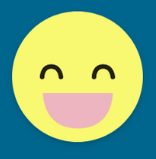
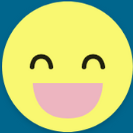
WIP: Styled nav bar with Carlos.

diff --git a/src/components/MenuBar.js b/src/components/MenuBar.js
@@ -2,7 +2,7 @@ import React from 'react';
 import { Link } from 'react-router-dom';
 import { Dropdown, Menu } from 'semantic-ui-react';
 import menubaremoji from '../ImgFiles/menubaremoji.PNG';
-import { menuBarEmoji } from './StyledWidgets';
+import { menuBarEmoji, NavBarMenu } from './StyledWidgets';
 
 
 
@@ -16,42 +16,36 @@ import { menuBarEmoji } from './StyledWidgets';
     console.log('props', props)
     if (token) {
         return (
-            <div >
+            <div style={NavBarMenu} >
                 <Menu attached='top' >
                     <Dropdown item icon='bars' simple>
                         <Dropdown.Menu>
                             <div>
                             <Link to='/' >
-                                <Dropdown.Item>Home</Dropdown.Item>
+                                <Dropdown.Item className="nav">Home</Dropdown.Item>
                             </Link>
                             </div>
                             <div>
                             <Link to='/contact' >
-                                <Dropdown.Item>Contact Us</Dropdown.Item>
+                                <Dropdown.Item className="nav">Contact Us</Dropdown.Item>
                             </Link>
                             </div>
                             <div>
                             <Link to ='/profile'>
-                                <Dropdown.Item>Profile</Dropdown.Item>
+                                <Dropdown.Item className="nav">Profile</Dropdown.Item>
                             </Link>
                             </div>
                             <div>
-                                <Dropdown.Item onClick={logout}>Logout</Dropdown.Item>
+                                <Dropdown.Item onClick={logout} className="nav">Logout</Dropdown.Item>
                             </div>
                         </Dropdown.Menu>
                     </Dropdown>
+
                     <Menu.Menu position='left' >
                             <img src={menubaremoji} alt='menuBarEmoji' style={menuBarEmoji}/>
-                            <h1  >MeSoFunny</h1>
+                            <h1>MeSoFunny</h1>
                     </Menu.Menu>
-                    <Menu.Menu position='right' >
-                        <h3 >Contact Us</h3>
-                        <h3>Settings</h3>
-                        <h3>Sign Out</h3>
-
-                    </Menu.Menu>
-
-
+                    
                 </Menu>
             </div>
         )
@@ -84,13 +78,6 @@ import { menuBarEmoji } from './StyledWidgets';
                             <img src={menubaremoji} alt='menuBarEmoji' style={menuBarEmoji}/>
                             <h1  >MeSoFunny</h1>
                     </Menu.Menu>
-                    <Menu.Menu position='right' >
-                            <h3 >Contact Us</h3>
-                            <h3>Settings</h3>
-                            <h3>Sign Out</h3>
-                    </Menu.Menu>
-
-
                 </Menu>
             </div>
         )

diff --git a/src/App.css b/src/App.css
@@ -49,35 +49,34 @@
 }
 .ui.attached.menu:not(.tabular){
   border: none;
+  width: 70%; 
+  margin: 0 auto; 
 }
 .ui.menu {
   background: rgb(86, 177, 173);
   display: flex;
-  justify-content: center;
+  justify-content: center; 
 }
 .ui.menu img {
-  margin: 0 ;
+  margin: 0 40px 0 10px;
 }
 .ui.menu h1 {
   color: white;
-  padding-top: 6%;
+  display: flex; 
+  align-items: center; 
+  
 }
-.ui.menu h3 {
-  color: white;
-  line-height: 0em;
-  margin: 0em;
-  font-size: 2vw;
-  padding-left: 10%;
-}
+
 h1:last-child, h2:last-child, h3:last-child, h4:last-child, h5:last-child{
   margin-top: 0;
 }
 
-.ui.menu:not(.vertical) .right.item, .ui.menu:not(.vertical) .right.menu{
-  margin-left: 0!important;
+.nav {
+  font-size: 2vh; 
+  margin: 30px; 
+  width: 8vw; 
 }
-.ui.menu .right.menu {
-  display: flex;
-  align-items: center;
-  font-size: 1.1rem;
+
+.ui.menu:not(.vertical) .item {
+  font-size: 2rem; 
 }

diff --git a/src/components/StyledWidgets.js b/src/components/StyledWidgets.js
@@ -12,11 +12,11 @@ export const jokeContainer = {
 export const menuIcon = {
     width: '120px',
     height: 'auto', 
-    
 }
 export const menuBarEmoji = {
-    width: '20%',
-    height: 'auto'
+    width: '100%',
+    height: 'auto',
+    borderRadius: '100%',
 }
 export const JokeListHeading = {
     display: 'flex',
@@ -44,3 +44,6 @@ export const JokeCarder ={
     flexDirection: 'column'
 }
 
+export const NavBarMenu = {
+    padding: '30px',
+}

diff --git a/src/homepage.css b/src/homepage.css
@@ -99,7 +99,6 @@
 */
 
 .public-joke-feed {
-    width: %; 
     margin: 0 auto; 
 }
 /* END of PublicJokes.jsx CSS */
@@ -122,7 +121,7 @@
 .public-card {
     width: 75%; 
     margin-bottom: 40px;
-    margin-left: 11%; 
+    margin-left: 11%;
 }
 
 .ui.segment {
@@ -161,3 +160,4 @@
     width: 70%; 
     margin: 0 auto; 
 }
+
